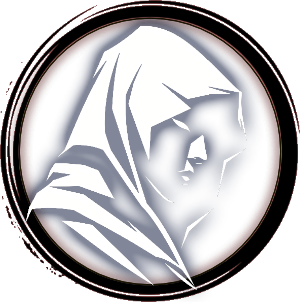
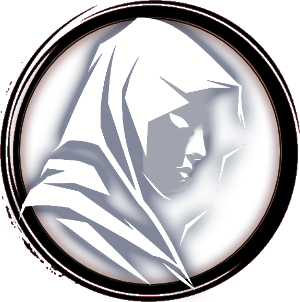
additional ico

diff --git a/src/view/iconChange.js b/src/view/iconChange.js
@@ -17,12 +17,16 @@ import image15 from '../pics/iconSword.png';
 import image1a from "../pics/iconCrown.png";
 import image2a from "../pics/iconHood.png";
 import image3a from "../pics/iconAngel.png";
-import imageS from "../pics/iconStar.png"
+import imageS from "../pics/iconStar.png";
+import imageM from "../pics/iconMoon.png";
+import iconCh from "../pics/iconChev.png";
+import iconR from "../pics/iconRune.png";
 
 import image17x from '../pics/iconXWhite.png';
 import image18x from '../pics/iconXRed.png';
 import image17y from '../pics/iconCheckWhite.png';
 import image18y from '../pics/iconCheckGreen.png';
+import image17null from '../pics/iconXnon.png';
 
 import locA from '../pics/loc/A.png';
 import locB from '../pics/loc/B.png';
@@ -32,10 +36,14 @@ import locE from '../pics/loc/E.png';
 import locF from '../pics/loc/F.png';
 import locG from '../pics/loc/G.png';
 import locH from '../pics/loc/H.png';
-// import locaa from '../pics/loc/a lower.png';
-// import locbb from '../pics/loc/b_lower.png';
-// import loccc from '../pics/loc/c_lower.png';
+import lockey from '../pics/iconKeyhole.png';
+import locSec from '../pics/loc/Secret.png';
+import locTrap from '../pics/loc/trap.png';
+import locaa from '../pics/loc/a lower.png';
+import locbb from '../pics/loc/b_lower.png';
+import loccc from '../pics/loc/c_lower.png';
 
+import num0 from '../pics/loc/0n.png';
 import num1 from '../pics/loc/1n.png';
 import num2 from '../pics/loc/2n.png';
 import num3 from '../pics/loc/3n.png';
@@ -87,13 +95,13 @@ export default class IconChange extends Component {
 
     const images = [image16,
       image1,image2,image2a,image5,image6,image7,image8,
-      image9,image10,image11,image12,image13,image14, image15, image4, image1a, image3a,imageS, imageQ, imageP,
-
-      image17x,image18x,
-      image17y,image18y,
-
+      image9,image10,image11,image12,image13,image14, image15, image4, image1a, image3a, imageM, iconCh, iconR, imageS, imageQ, imageP,
+      image17null,
+      image17x,image18x, 
+      image17y,image18y,lockey,
+      locSec, locTrap, 
     locA, locB, locC, locD, locE, locF, locG, locH, 
-    // locaa, locbb, loccc,
+    locaa, locbb, loccc, num0,  
       num1,num2,num3,num4,num5,num6,num7,num8,num9,num10,
             
             "#C1A71Bbb", "#1E90FFbb", "#5F0C0Cae", 

diff --git a/src/view/interactiveBulletin.js b/src/view/interactiveBulletin.js
@@ -8,7 +8,7 @@ import editPin from '../pics/editPin.png';
 
 import image1 from '../pics/iconTest.png';
 import image2 from '../pics/iconCapitol.png';
-import image4 from '../pics/iconCave.png';
+import image4 from '../pics/iconHood.png';
 import image5 from '../pics/iconSkull.png';
 import image6 from '../pics/iconTavern.png';
 import image7 from '../pics/iconKeep.png';
